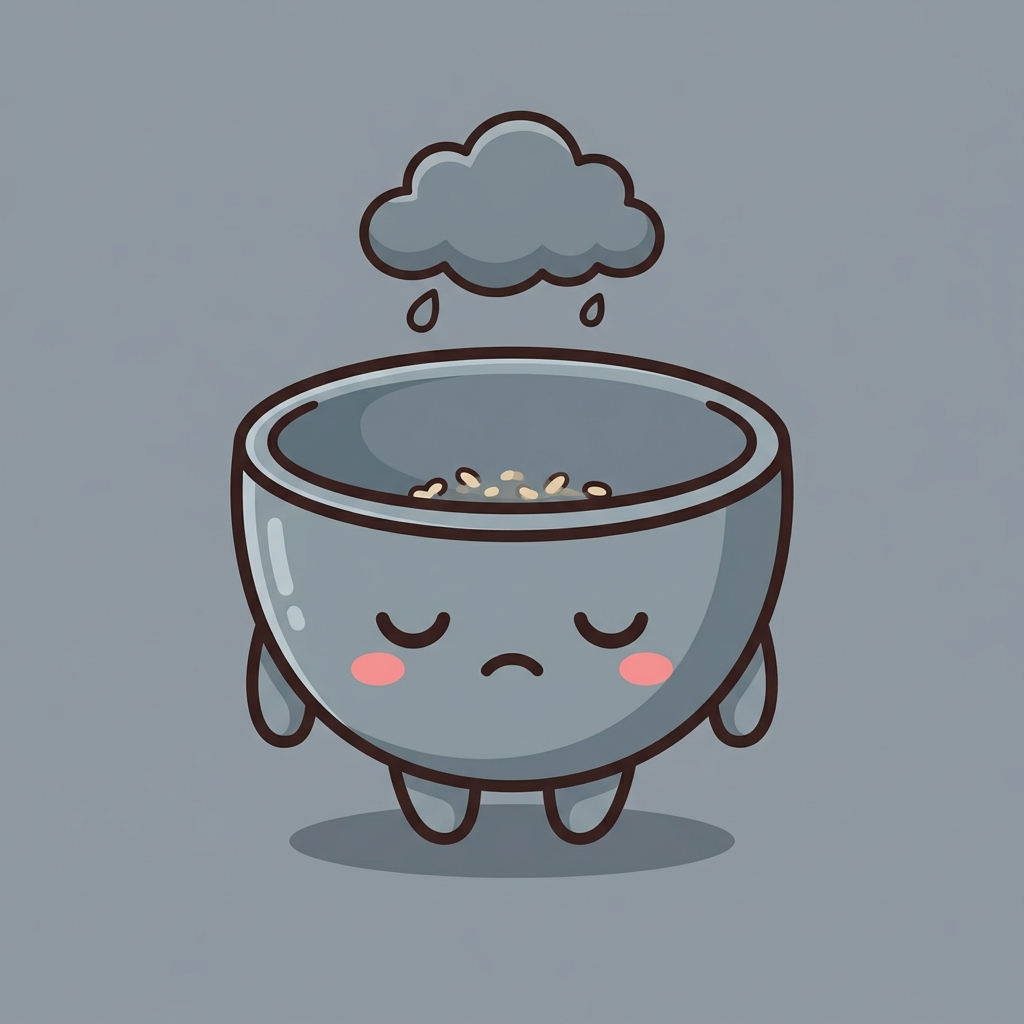
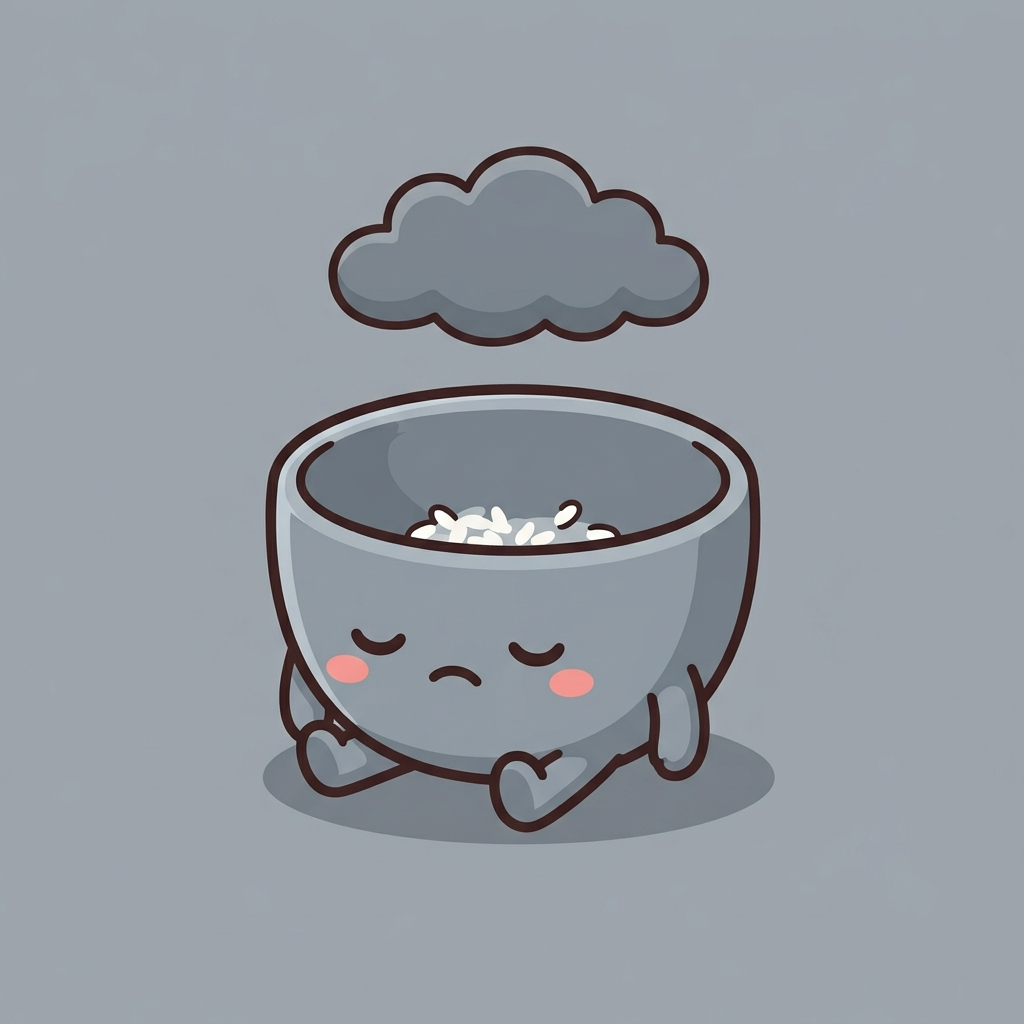
auto-commit for 3d2ad34c-d06d-43b4-9a41-bd5829410ae0

Changed region(s): [[0.2188, 0.0938, 0.7812, 0.875]]

diff --git a/frontend/src/constants/emotions.ts b/frontend/src/constants/emotions.ts
@@ -66,7 +66,7 @@ export const EMOTIONS: Emotion[] = [
   { key: 'exhausted', label: '好攰', description: '身心都攰晒', color: '#E0BBE4', image: EMOTION_IMAGES.exhausted },
 
   // Nervous / tense
-  { key: 'restless', label: '心煩', description: '坐唔定 靜唔到', color: '#FFDEAD', image: EMOTION_IMAGES.restless },
+  { key: 'restless', label: '不知所措', description: '唔知點算好', color: '#FFF3B0', image: EMOTION_IMAGES.restless },
   { key: 'irritable', label: '煩躁', description: '個火開始上湧', color: '#FFB088', image: EMOTION_IMAGES.irritable },
   { key: 'anxious', label: '焦慮', description: '好似有啲嘢唔妥', color: '#FFD6A5', image: EMOTION_IMAGES.anxious },
   { key: 'worried', label: '擔心', description: '諗嘢停唔到', color: '#FFE4B5', image: EMOTION_IMAGES.worried },

diff --git a/backend/generate_emotion_icons.py b/backend/generate_emotion_icons.py
@@ -74,10 +74,10 @@ EMOTIONS = [
     ("peaceful",     "soft lavender purple",            RICE_FULL,
      "sleeping softly with a small sleepy smile and a tiny snore bubble, a small crescent moon and one tiny star floating beside it",
      "misty lavender"),
-    # loved — TWO heart-shaped bowls holding hands
-    ("loved",        "rose pink (both bowls are shaped like hearts with pointed bottoms and rounded lobes)",
+    # loved — TWO HEART-SHAPED bowls holding hands (stronger heart emphasis)
+    ("loved",        "rose pink",
      RICE_HEAP,
-     "actually drawn as TWO identical heart-shaped rice-bowl mascots standing side by side holding each other's tiny stubby hands, both with small heart-shaped smiling mouths and blushing cheeks, three tiny floating pink hearts between them",
+     "actually drawn as TWO identical mascots STANDING SIDE BY SIDE HOLDING HANDS: each mascot is a bowl of rice where the BOWL ITSELF is clearly shaped like a HEART with a distinct pointed V-shape at the bottom and two rounded lobes on top forming a heart silhouette (NOT a round bowl). Both have small heart-shaped smiling mouths and blushing cheeks; three tiny floating pink hearts between them",
      "cotton candy pink"),
     ("proud",        "shiny gold",                      RICE_HEAP,
      "with a confident wide grin, one little arm raised holding a tiny golden star, a tiny sparkle above its head",
@@ -89,9 +89,9 @@ EMOTIONS = [
      RICE_HALF,
      "with a small downturned mouth and one big shiny teardrop under one eye; the heart-shaped bowl has an obvious dark crack line across it",
      "powder blue"),
-    # lonely — round bowl, distinct dusty green-grey to differ from sad
+    # lonely — sighing gesture added
     ("lonely",       "muted sage grey-green",           RICE_HALF,
-     "sitting with arms lowered and looking sideways with a lonely quiet expression, a tiny paper boat floating on gentle wavy lines next to the bowl",
+     "sitting with arms lowered and a lonely quiet expression, looking sideways, letting out a small SIGH shown as a puff of pale grey air breath coming from its small o-shaped mouth (a tiny curved sigh cloud in front of the face); a tiny paper boat floating nearby on gentle wavy lines",
      "misty pale seafoam"),
     ("empty",        "bone white cream",                RICE_TINY,
      "with a completely blank flat straight-line mouth and simple dot eyes, no accessories, the rice inside is almost gone",
@@ -105,9 +105,10 @@ EMOTIONS = [
      "soft lilac"),
 
     # ---- Nervous / tense ----
-    ("restless",     "warm peach",                      RICE_FULL,
-     "with wide alert eyes, a small worried o-shaped mouth, tiny motion swirls and wobble lines around the bowl as if it cannot sit still",
-     "peach cream"),
+    # restless slot → repurposed to describe 不知所措 (at a loss / clueless)
+    ("restless",     "soft butter yellow",              RICE_FULL,
+     "with a helpless dazed expression: eyes wide open, mouth slightly open in a small o-shape, both tiny stubby hands lifted upward and outward in a confused shrug gesture, palms open. Two or three tiny black question marks '?' floating around its head",
+     "warm cream yellow"),
     # NEW: irritable — chili on head, BIGGER chili, red steam
     ("irritable",    "burnt sienna orange",             RICE_FULL,
      "with an irritable frown and slightly furrowed brows, a LARGE bright red chili pepper the size of half the bowl balanced on top of the rice, small red steam puffs rising from around the chili",
@@ -158,20 +159,21 @@ EMOTIONS = [
     ("misunderstood","soft dusty purple",               RICE_FULL,
      "with a small confused frown, a tiny speech bubble containing a small tangled scribble above its head",
      "soft lavender"),
-    ("guilty",       "pale mustard yellow",             RICE_HALF,
-     "looking down with a small worried frown, one tiny arm hiding its face partially, a small dark cloud with a tiny raindrop above it",
+    # guilty — deeply bowing / apologizing, hands together in front
+    ("guilty",       "soft mustard yellow",             RICE_HALF,
+     "bowing its head DEEPLY DOWN low toward the ground in a heartfelt apology, both tiny stubby hands pressed together in front of the bowl in a sorry gesture, eyes closed with a small regretful downturned mouth, a small dark cloud raincloud with a tiny raindrop floating above its bowed head",
      "pale mustard"),
     ("ashamed",      "dusty coral pink",                RICE_LOW,
      "with both little hands covering its face, only tiny pink blushing cheeks peeking through, tiny embarrassment lines around its head",
      "dusty coral"),
     ("hopeless",     "muted storm grey",                RICE_TINY,
-     "with eyes closed and a small resigned downturned mouth, a single heavy dark grey cloud floating above the head, muted washed-out colors",
+     "SITTING on the ground with legs stretched out limply in front, both tiny arms resting weakly on its legs, eyes closed and small resigned downturned mouth, head slumped slightly forward. A single heavy dark grey cloud floating just above its head, muted washed-out colors",
      "storm grey"),
 
     # ---- Anger / intense ----
-    # frustrated — new: arms crossed, sighing steam, muted grey-brown bowl
+    # frustrated — sitting cross-legged with arms crossed and sighing
     ("frustrated",   "muted taupe grey-brown",          RICE_LOW,
-     "with both little arms crossed firmly across its front, a small tired sighing mouth and half-lidded eyes, a small grey deflated cloud sigh puff drifting up from its head; the whole mascot slumped slightly forward",
+     "SITTING on the ground cross-legged with both little stubby legs folded in front, both little arms crossed firmly across its front, a small tired sighing mouth and half-lidded eyes, a small grey deflated sigh puff cloud drifting up from its head",
      "warm sandy beige"),
     # angry — puffed red cheeks + hands on hips + frown
     ("angry",        "bright hot red",                  RICE_FULL,
@@ -180,8 +182,9 @@ EMOTIONS = [
     ("furious",      "fiery scarlet red",               RICE_HEAP,
      "with fiery angry v-shaped eyebrows and a wide open shouting mouth, both little arms raised in the air clenched, a large red steam explosion and a small orange fire flame bursting from the top of the rice",
      "warm coral"),
+    # in-pain — LYING DOWN on side, hugging itself, tears
     ("in-pain",      "deep muted rose",                 RICE_LOW,
-     "hugging itself with both tiny arms crossed tight over its front, tears welling up in both eyes and a small wincing pained mouth, a small white bandage on the side of the bowl",
+     "shown LYING DOWN on its side sideways on the ground, curled up hugging itself with both tiny arms wrapped tightly around its front, both eyes tightly shut with tears rolling out and a small wincing pained mouth, a small white bandage on the side of the bowl",
      "muted rose"),
     # in-agony — FRYING PAN with rice being pan-fried, fire underneath
     ("in-agony",     "black cast-iron frying pan with a wooden handle sticking out to the side (NOT a ceramic bowl this time — a shallow FRYING PAN skillet)",
